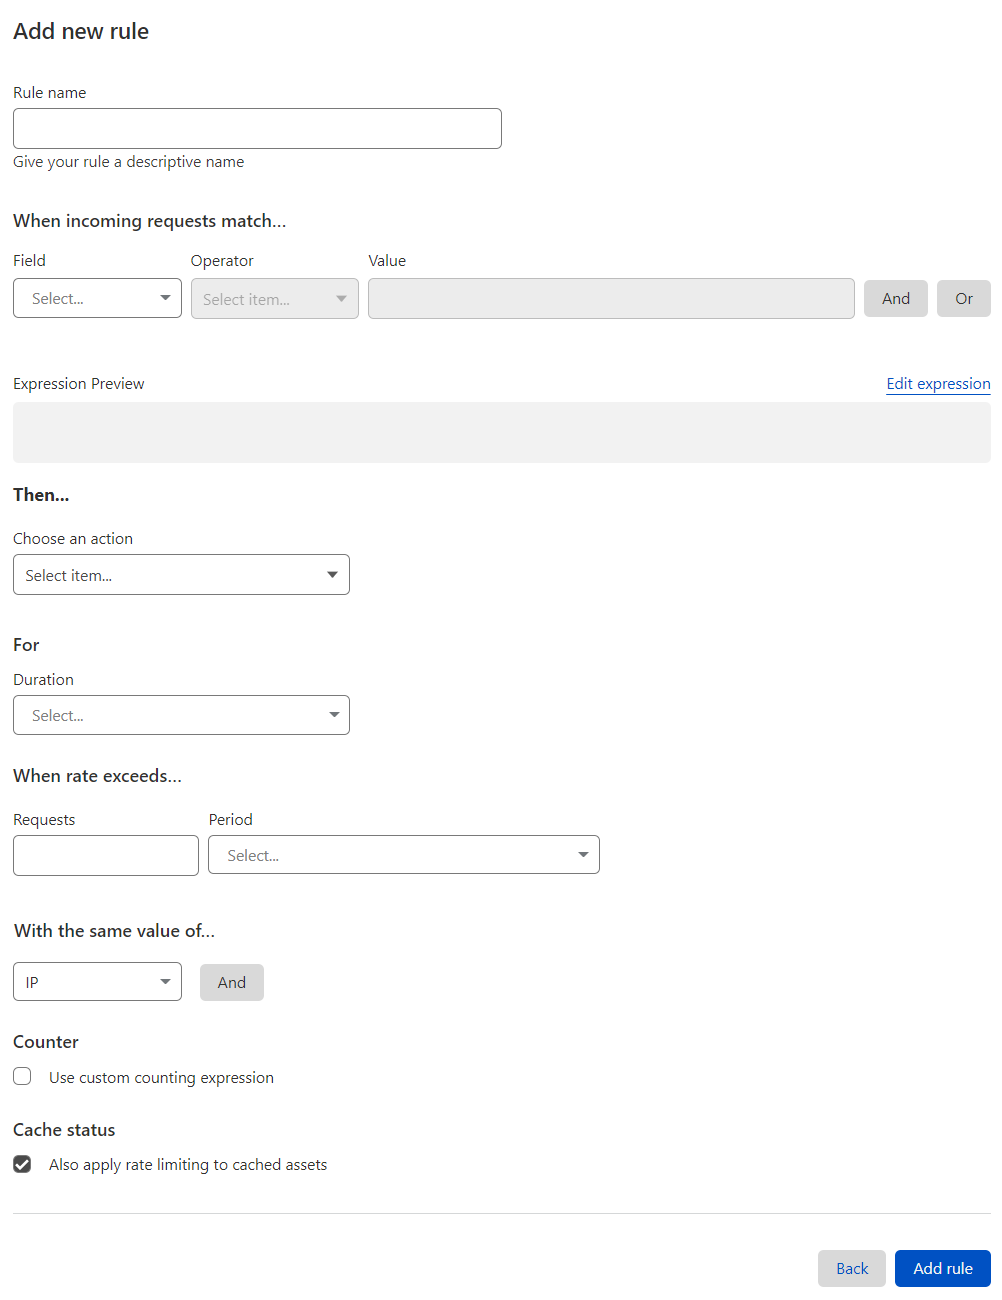
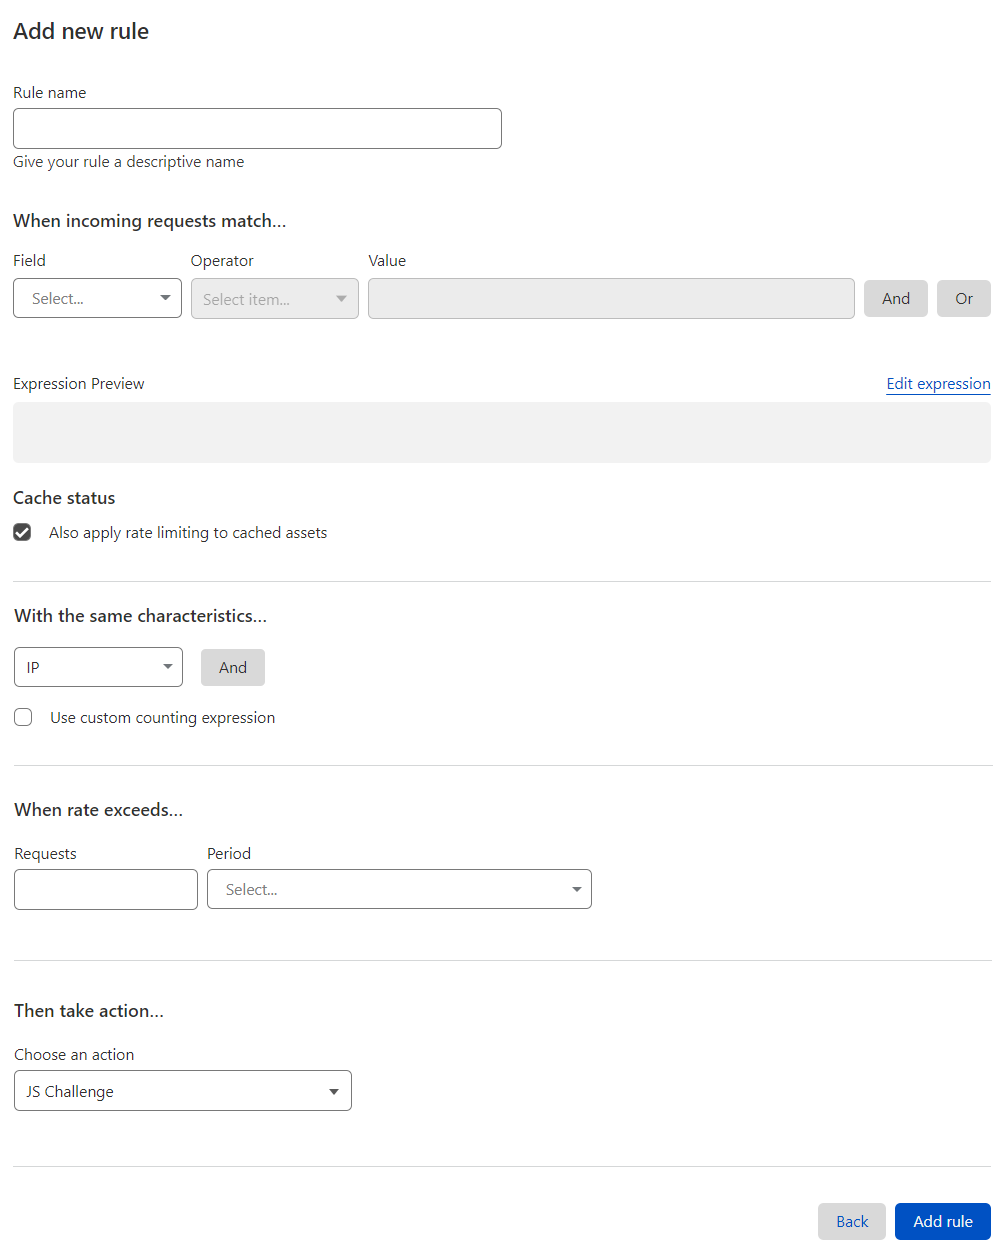
Update account-level dashboard instructions

diff --git a/content/waf/rate-limiting-rules/create-account-dashboard.md b/content/waf/rate-limiting-rules/create-account-dashboard.md
@@ -36,21 +36,23 @@ To create a new custom rate limiting ruleset:
 
 7. Under **When incoming requests match**, use the **Field** drop-down list to choose an HTTP property. For each request, the value of the property you choose for **Field** is compared to the value you specify for **Value** using the operator selected in **Operator**.
 
-8. Select the rule action from the **Choose an action** drop-down list. For example, selecting _Block_ tells Cloudflare to refuse requests in the conditions you specified when the request limit is reached.
+8. (Optional) Under **Cache status**, disable **Also apply rate limiting to cached assets** to consider only the requests that reach the origin when determining the rate.
 
-9. (Optional) If you selected the _Block_ action, you can [configure a custom response](#configuring-a-custom-response-for-blocked-requests) for requests exceeding the configured rate limit.
-
-10. Under **For**, select the mitigation timeout in **Duration**. This is the time period during which Cloudflare applies the select action once the rate is reached.
-
-11. Under **When rate exceeds**, define the maximum number of requests and the time period to consider when determining the rate.
-
-12. Under **With the same value of**, configure the characteristics that will define the request counters for rate limiting purposes. Each value combination will have its own counter to determine the rate. Refer to [How Cloudflare determines the request rate](/waf/rate-limiting-rules/request-rate/) for more information.
+9. Under **With the same characteristics**, configure the characteristics that will define the request counters for rate limiting purposes. Each value combination will have its own counter to determine the rate. Refer to [How Cloudflare determines the request rate](/waf/rate-limiting-rules/request-rate/) for more information.
 
     The available characteristics depend on your Cloudflare plan and product subscriptions.
 
-13. (Optional) Under **Counter**, enable **Use custom counting expression** to define an expression that specifies the conditions for incrementing the rate counter. By default, the counting expression is the same as the rule expression. The counting expression can include [response fields](/ruleset-engine/rules-language/fields/#http-response-fields).
+10. (Optional) To define an expression that specifies the conditions for incrementing the rate counter, enable **Use custom counting expression** and set the expression. By default, the counting expression is the same as the rule expression. The counting expression can include [response fields](/ruleset-engine/rules-language/fields/#http-response-fields).
 
-14. (Optional) Under **Cache status**, disable **Also apply rate limiting to cached assets** to consider only the requests that reach the origin when determining the rate.
+11. Under **When rate exceeds**, define the maximum number of requests and the time period to consider when determining the rate.
+
+12. Under **Then take action**, select the rule action from the **Choose an action** drop-down list. For example, selecting _Block_ tells Cloudflare to refuse requests in the conditions you specified when the request limit is reached.
+
+13. (Optional) If you selected the _Block_ action, you can [configure a custom response](#configuring-a-custom-response-for-blocked-requests) for requests exceeding the configured rate limit.
+
+14. Select the mitigation timeout in the **Duration** dropdown. This is the time period during which Cloudflare applies the select action once the rate is reached.
+
+    Enterprise customers with a paid add-on can [throttle requests](/waf/rate-limiting-rules/parameters/#with-the-following-behavior) instead of applying the configured action during a selected duration. To throttle requests, under **With the following behavior** select _Throttle requests over the maximum configured rate_.
 
 15. Select **Add rule**.
 
@@ -74,7 +76,7 @@ To deploy a custom rate limiting ruleset to one or more zones on an Enterprise p
 Deployed custom rate limiting rulesets will only apply to incoming traffic of zones on an Enterprise plan. The Expression Builder will automatically include this filter. If you define a custom expression using the Expression Editor, you must include `AND zone.level eq "ENT"` in your expression so that the rule only applies to zones on an Enterprise plan.
     {{</Aside>}}
 
-6. To deploy your rule immediately, select **Deploy**. If you are not ready to deploy your rule, select **Save as draft**.
+6. To deploy your rule immediately, select **Deploy**. If you are not ready to deploy your rule, select **Save as Draft**.
 
 The **Deployed custom rate limiting rulesets** list will show a rule for each deployed custom rate limiting ruleset.
 
